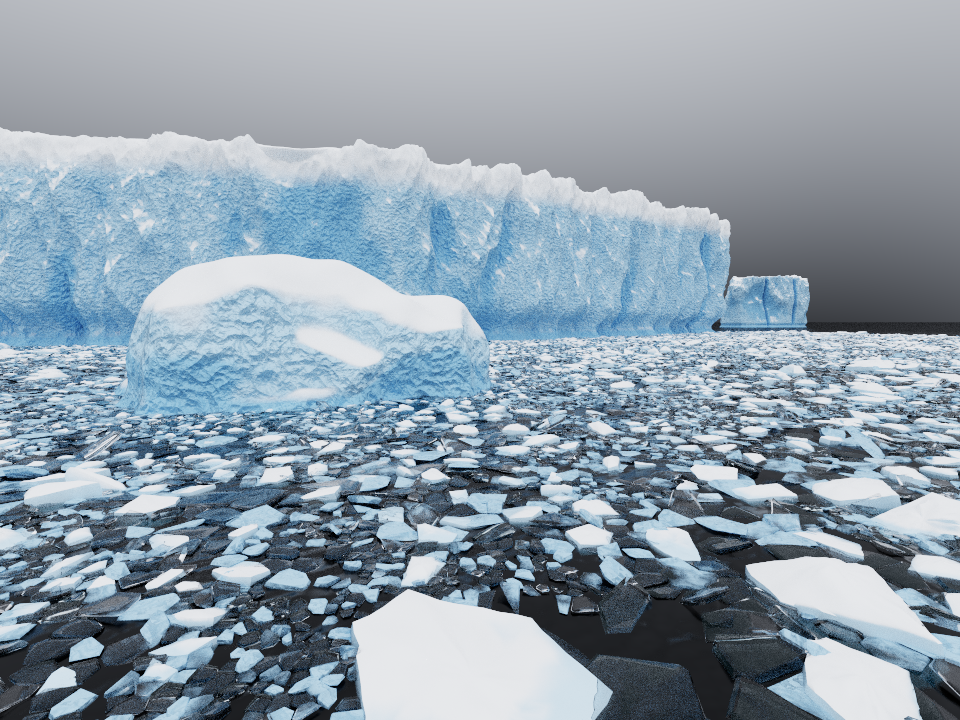
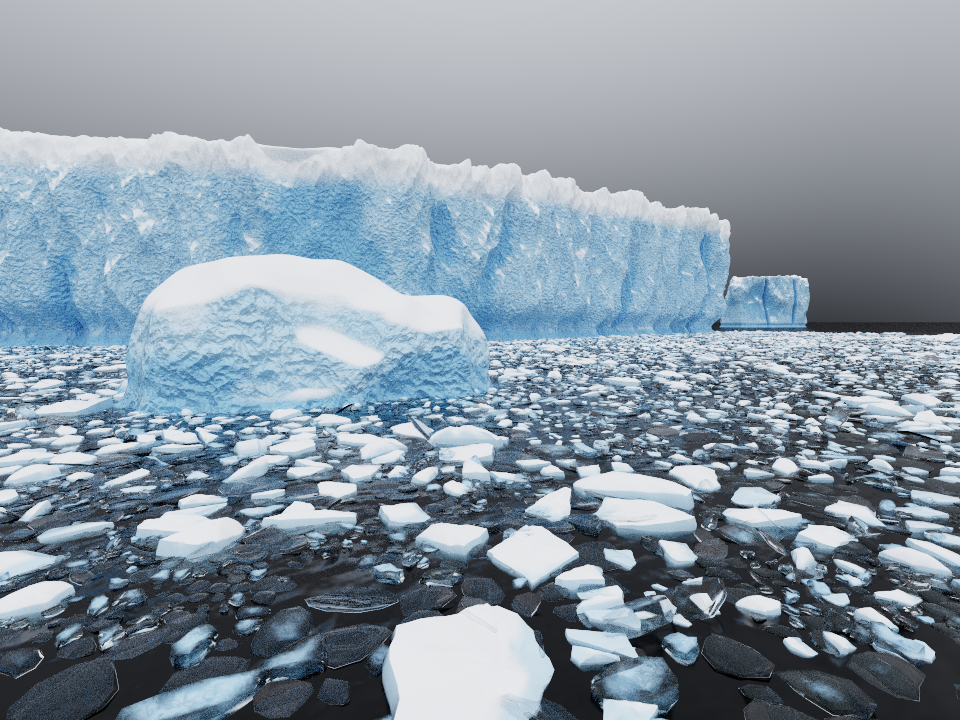
Slush melts: clear at the edges, cloudy in the middle; freer shapes
Each slush fragment is somewhere on its way to melting away: from
thick, angular and white to a thin, rounded, glass-clear wafer. Its
cloudiness is carried per vertex, clearest at the thin edges. Outlines
are resampled, lobed and notched (not convex), squeezed into slivers as
well as plates, and rounder the more melted. Shards' outlines are more
ragged too.

Claude-Session: https://claude.ai/code/session_01U8ZZipMaWkahSeibBW3vnt

diff --git a/src/procedural/iceberg.rs b/src/procedural/iceberg.rs
@@ -686,8 +686,8 @@ impl MaterialModel for IcebergMaterial {
                 // Clear ice, the dark water showing through, with cloudy patches of bubbles
                 // and of snow frozen in.
                 let p = intersection.point;
-                let cloud = smoothstep(0.35, 0.7, firn + 0.5 * self.noise.fbm(Vector3::new(p.x, 0., p.z) / 0.35, 4));
-                return if rand() < 0.85 * cloud {
+                let cloud = smoothstep(0.15, 0.6, firn + 0.25 * self.noise.fbm(Vector3::new(p.x, 0., p.z) / 0.2, 4));
+                return if rand() < 0.95 * cloud {
                     let normal = self.bumped(&i.point, &i.normal, &-r.rd.normalize());
                     f(&self.clear.bsdf(&normal, Some(s)), r, &i.point, s)
                 } else {
@@ -983,9 +983,10 @@ impl FloeField {
         };
         // Where there is ice at all: lanes of open water wander through.
         let iced = |x: f64, z: f64, u: f64| u + 1.5 * self.clumping * clumps.fbm(Vector3::new(x, 0., z) / clump_size, 3) > 1. - p_ice;
-        let mut emit = |piece: Vec<Vector3<f64>>, tris: Vec<[usize; 3]>, uv: (f64, f64)| {
+        let mut emit = |piece: Vec<Vector3<f64>>, tris: Vec<[usize; 3]>, uv: Vec<(f64, f64)>| {
             let start = positions.len();
-            texcoords.extend(std::iter::repeat_n(crate::na::Vector2::new(uv.0, uv.1), piece.len()));
+            assert_eq!(uv.len(), piece.len());
+            texcoords.extend(uv.iter().map(|&(u, v)| crate::na::Vector2::new(u, v)));
             triangles.extend(tris.iter().map(|t| t.map(|i| i + start)));
             positions.extend(piece);
             pieces += 1;
@@ -1001,27 +1002,71 @@ impl FloeField {
             }
         };
 
-        // Slush.
-        let fine = (4. * self.min_size).clamp(0.6, 1.6);
+        // Slush. Each fragment is somewhere on its way to melting away, `melt` from 0 (just
+        // broken: thick, angular, white with bubbles) to 1 (nearly gone: a thin, rounded,
+        // glass-clear wafer). Within a fragment the ice is clearest at its thin edges, where
+        // melting has got furthest, and cloudiest in its middle.
+        let fine = (5. * self.min_size).clamp(0.8, 2.);
         for (cell, _) in self.cells(fine, 8, &mut rng) {
             let c = centroid(&cell);
-            if !iced(c.0, c.1, 0.35 + 0.3 * rng.next_f64()) || rng.next_f64() < 0.18 { continue; }
-            let grow = 0.7 + 0.55 * rng.next_f64();
-            let poly: Vec<(f64, f64)> = cell.iter().map(|p| (c.0 + (p.0 - c.0) * grow, c.1 + (p.1 - c.1) * grow)).collect();
-            let poly = broken(poly, c, 1 + (rng.next_f64() * 3.) as usize, 0.5, &mut rng);
+            if !iced(c.0, c.1, 0.35 + 0.3 * rng.next_f64()) || rng.next_f64() < 0.15 { continue; }
+            let melt = rng.next_f64().powf(0.7);
+            // Grown or shrunk, and squeezed along an axis: slivers as well as plates.
+            let grow = 0.45 + 0.95 * rng.next_f64();
+            let (axis, squeeze) = (rng.next_f64() * TAU, 0.3 + 0.7 * rng.next_f64().sqrt());
+            let (ax, az) = (axis.cos(), axis.sin());
+            let poly: Vec<(f64, f64)> = cell.iter().map(|p| {
+                let (dx, dz) = ((p.0 - c.0) * grow, (p.1 - c.1) * grow);
+                let along = dx * ax + dz * az;
+                (c.0 + dx - (1. - squeeze) * along * ax, c.1 + dz - (1. - squeeze) * along * az)
+            }).collect();
+            let poly = broken(poly, c, (rng.next_f64() * 5.) as usize, 0.35, &mut rng);
             let radius = reach(&poly, c);
             if radius < 0.02 { continue; }
-            let sheet = (0.02 + 0.12 * rng.next_f64().powi(2)).min(0.6 * radius);
-            let lump = 0.5 * sheet * rng.next_f64();
+            // The outline, resampled: lobed and notched (it need not be convex), and the more
+            // melted, the more its corners are rounded off towards a blob.
             let offset = Vector3::new(rng.next_f64(), rng.next_f64(), rng.next_f64()) * 50.;
+            let perimeter: f64 = (0..poly.len()).map(|k| { let (a, b) = (poly[k], poly[(k + 1) % poly.len()]); (b.0 - a.0).hypot(b.1 - a.1) }).sum();
+            let points = ((perimeter / (0.5 * radius)).ceil() as usize).clamp(5, 10);
+            let lobes = 0.12 + 0.3 * rng.next_f64();
+            let mut outline: Vec<(f64, f64)> = vec![];
+            let mut walked = 0.;
+            let mut next = 0.;
+            for k in 0..poly.len() {
+                let (a, b) = (poly[k], poly[(k + 1) % poly.len()]);
+                let len = (b.0 - a.0).hypot(b.1 - a.1);
+                while next < walked + len && outline.len() < points {
+                    let f = (next - walked) / len.max(1e-12);
+                    let (x, z) = (a.0 + (b.0 - a.0) * f - c.0, a.1 + (b.1 - a.1) * f - c.1);
+                    let d = x.hypot(z).max(1e-9);
+                    // Towards a circle as it melts, then lobed.
+                    let round = d + 0.6 * melt * (0.75 * radius - d);
+                    let u = Vector3::new(x / d, 0., z / d);
+                    let k = round / d * (1. + lobes * noise.fbm(u * 1.3 + offset, 2) + 0.5 * lobes * (1. - melt) * noise.noise(u * 4. + offset));
+                    outline.push((c.0 + x * k, c.1 + z * k));
+                    next += perimeter / points as f64;
+                }
+                walked += len;
+            }
+            if outline.len() < 3 { continue; }
+            let radius = reach(&outline, c);
+            // Thinner as it melts; fresh fragments stand a little proud, lumpy.
+            let sheet = (0.015 + 0.3 * (1. - melt).powi(2) * rng.next_f64()).min(0.7 * radius);
+            let lump = sheet * (0.2 + 0.8 * (1. - melt) * rng.next_f64());
             let ripple = |x: f64, z: f64, k: usize| if k < 2 { lump * (0.5 + noise.fbm(Vector3::new(x, 0., z) / (0.6 * radius) + offset, 2)) } else { 0. };
-            let rings = [(0.5, 0.), (0.9, 0.), (1., -0.3 * sheet), (0.85, -sheet)];
-            let (mut piece, tris) = solid(&poly, c, &rings, &ripple);
-            // Most lie flat at the surface, at slightly different heights; a few are tipped up.
+            let rings = [(0.5, 0.115 * sheet), (0.88, 0.115 * sheet), (1., -0.25 * sheet), (0.8, -0.885 * sheet)];
+            let (mut piece, tris) = solid(&outline, c, &rings, &ripple);
+            // Most lie flat at the surface; a few are tipped up.
             let tip = if rng.next_f64() < 0.1 { 0.25 + 0.5 * rng.next_f64() } else { 0.08 * rng.next_f64() };
-            place(&mut piece, c, radius, tip, 0.03 * rng.next_f64() + 0.3 * tip * radius, &mut rng);
-            // How cloudy: most clear, some white.
-            emit(piece, tris, (1., rng.next_f64().powi(2)));
+            place(&mut piece, c, radius, tip, 0.3 * tip * radius, &mut rng);
+            // How cloudy, per vertex (the middle, the two top rings, the edge and underside).
+            let core = (1. - melt).powf(1.5) * (0.5 + 0.6 * rng.next_f64());
+            let m = outline.len();
+            let cloud = |ring: f64| core * (1. - 0.75 * ring * ring) - 0.2 * melt;
+            let mut uv = vec![(1., cloud(0.))];
+            for f in [0.5, 0.88, 1., 1.] { uv.extend(std::iter::repeat_n((1., cloud(f)), m)); }
+            uv.push((1., cloud(0.3)));
+            emit(piece, tris, uv);
         }
 
         // Shards.
@@ -1067,7 +1112,8 @@ impl FloeField {
                     for t in 0..n {
                         let f = t as f64 / n as f64;
                         let (x, z) = (a.0 + (b.0 - a.0) * f, a.1 + (b.1 - a.1) * f);
-                        let ragged = 1. + 0.1 * noise.fbm(Vector3::new(x, 0., z) / (0.35 * r) + offset, 3);
+                        let ragged = 1. + 0.22 * noise.fbm(Vector3::new(x, 0., z) / (0.8 * r) + offset, 2)
+                            + 0.1 * noise.fbm(Vector3::new(x, 0., z) / (0.25 * r) + offset, 3);
                         outline.push((pc.0 + (x - pc.0) * ragged, pc.1 + (z - pc.1) * ragged));
                     }
                 }
@@ -1090,7 +1136,8 @@ impl FloeField {
                 let (mut piece, tris) = solid(&outline, pc, &rings, &bump);
                 let tip = if rng.next_f64() < 0.12 { 0.2 + 0.4 * rng.next_f64() } else { (0.05 + 0.15 / (1. + r)) * rng.next_f64() };
                 place(&mut piece, pc, r, tip, 0., &mut rng);
-                emit(piece, tris, (0., 0.));
+                let uv = vec![(0., 0.); piece.len()];
+                emit(piece, tris, uv);
             }
         }
         println!("Brash: {} pieces, {} triangles", pieces, triangles.len());

diff --git a/docs/snow-and-ice.md b/docs/snow-and-ice.md
@@ -156,10 +156,12 @@ cells twice, at two scales, so neither layer shows the other's pattern. `concent
 share of the sea with ice; the rest is open water, gathered in lanes (more so with higher
 `clumping`).
 
-- **Slush** (the fine partition): fragments of clear ice a few centimetres thick, a hand's
-  width to a metre across. Some overlap and some leave gaps; they lie at slightly different
-  heights and tilts, with a few tipped up out of the water. They range from glass-clear, with
-  the dark water showing through, to cloudy white.
+- **Slush** (the fine partition): fragments of ice from a hand's width to a couple of metres
+  across, each somewhere on its way to melting away. A fresh one is thick, angular and white
+  with bubbles; a nearly melted one is a thin, rounded, glass-clear wafer with the dark water
+  showing through. Within a fragment the ice is clearest at its thin edges and cloudiest in
+  the middle. Outlines are lobed and notched, slivers as well as plates. Some overlap, some
+  leave gaps, and a few are tipped up out of the water.
 - **Shards** (the coarse partition, `size` giving the smallest and largest): chunks of white
   ice. Each is its cell's polygon pulled in off-centre, squeezed, sometimes split in two, with
   corners broken off and a ragged outline, under an uneven, hummocked, snowy top. Small cells
